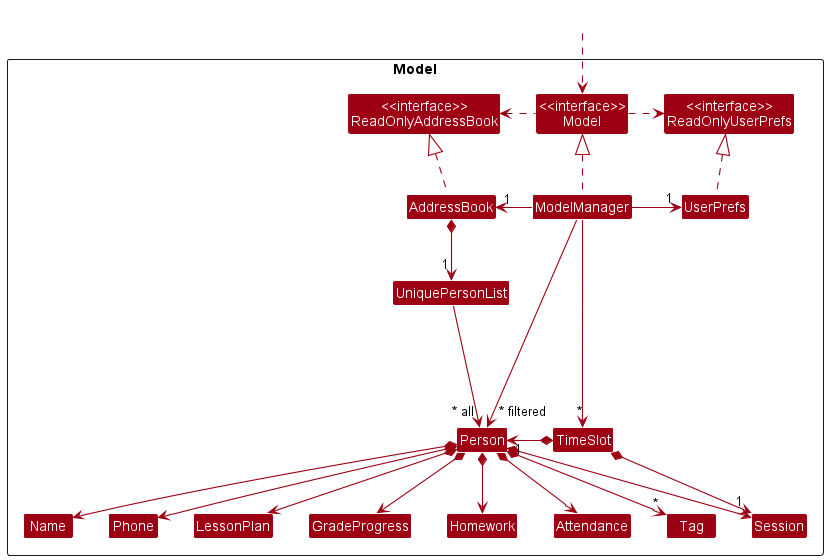
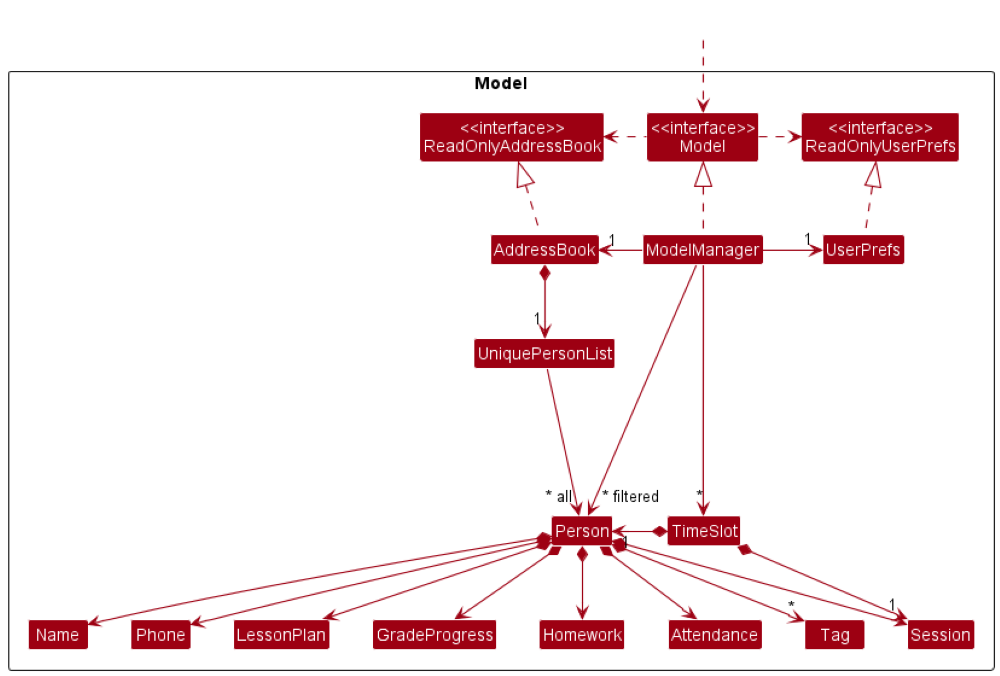
Fix layout and sizing

diff --git a/docs/DeveloperGuide.md b/docs/DeveloperGuide.md
@@ -116,7 +116,7 @@ How the parsing works:
 ### Model component
 **API** : [`Model.java`](https://github.com/se-edu/addressbook-level3/tree/master/src/main/java/seedu/address/model/Model.java)
 
-<img src="images/ModelClassDiagram.png" width="450" />
+<img src="images/ModelClassDiagram.png" width="600" />
 
 
 The `Model` component,
@@ -128,7 +128,7 @@ The `Model` component,
 
 <div markdown="span" class="alert alert-info">:information_source: **Note:** An alternative (arguably, a more OOP) model is given below. It has a `Tag` list in the `AddressBook`, which `Person` references. This allows `AddressBook` to only require one `Tag` object per unique tag, instead of each `Person` needing their own `Tag` objects.<br>
 
-<img src="images/BetterModelClassDiagram.png" width="450" />
+<img src="images/BetterModelClassDiagram.png" width="600" />
 
 </div>
 
@@ -137,7 +137,7 @@ The `Model` component,
 
 **API** : [`Storage.java`](https://github.com/se-edu/addressbook-level3/tree/master/src/main/java/seedu/address/storage/Storage.java)
 
-<img src="images/StorageClassDiagram.png" width="550" />
+<img src="images/StorageClassDiagram.png" width="750" />
 
 The `Storage` component,
 * can save both address book data and user preference data in json format, and read them back into corresponding objects.
@@ -397,6 +397,10 @@ Step 3. The user executes a `show Mon` command which displays a list of persons 
 The following sequence shows how viewing the schedule works:
 
 ![ShowSequenceDiagram](images/ShowSequenceDiagram.png)
+
+<div markdown="span" class="alert alert-info">
+:information_source: **Note** The lifeline for `ShowCommandParser` should end at the destroy marker (X) but due to a limitation of PlantUML, the lifeline reaches the end of diagram.
+</div>
 
 #### Design considerations
 **Aspect: Retrieval of individual sessions**
@@ -686,6 +690,7 @@ Priorities: High (must have) - `* * *`, Medium (nice to have) - `* *`, Low (unli
 * **Mainstream OS**: Windows, Linux, Unix, OS-X
 * **Session**: The time slot allocated to a student
 * **Schedule**: The students and time slots scheduled for a particular day
+
 --------------------------------------------------------------------------------------------------------------------
 
 ## **Appendix: Instructions for manual testing**
